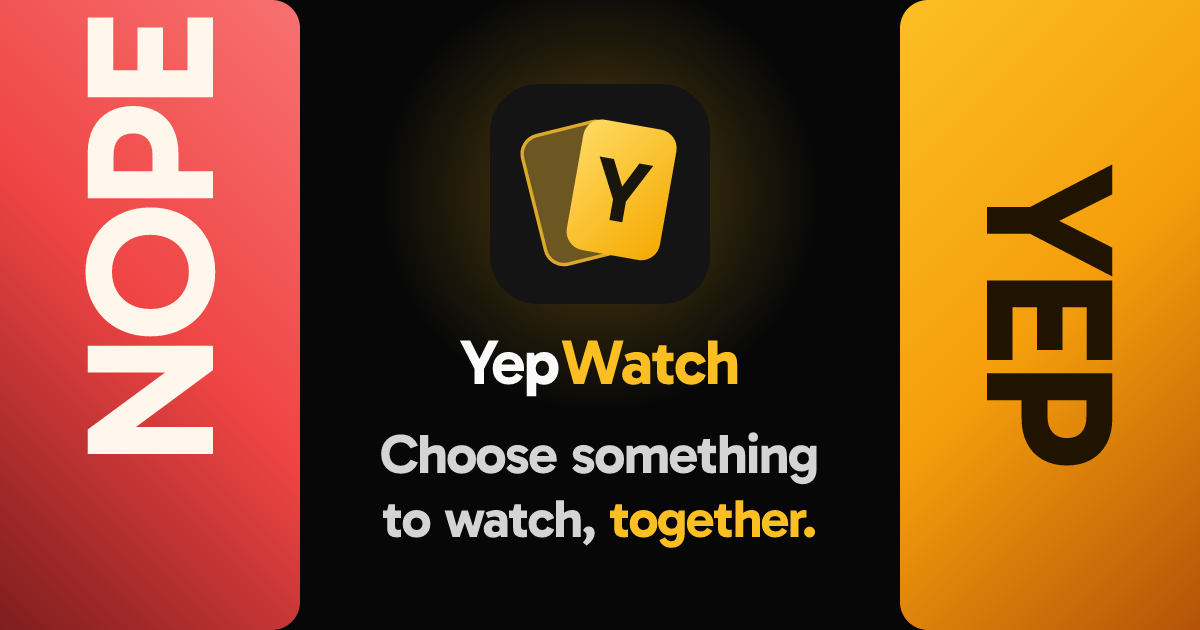
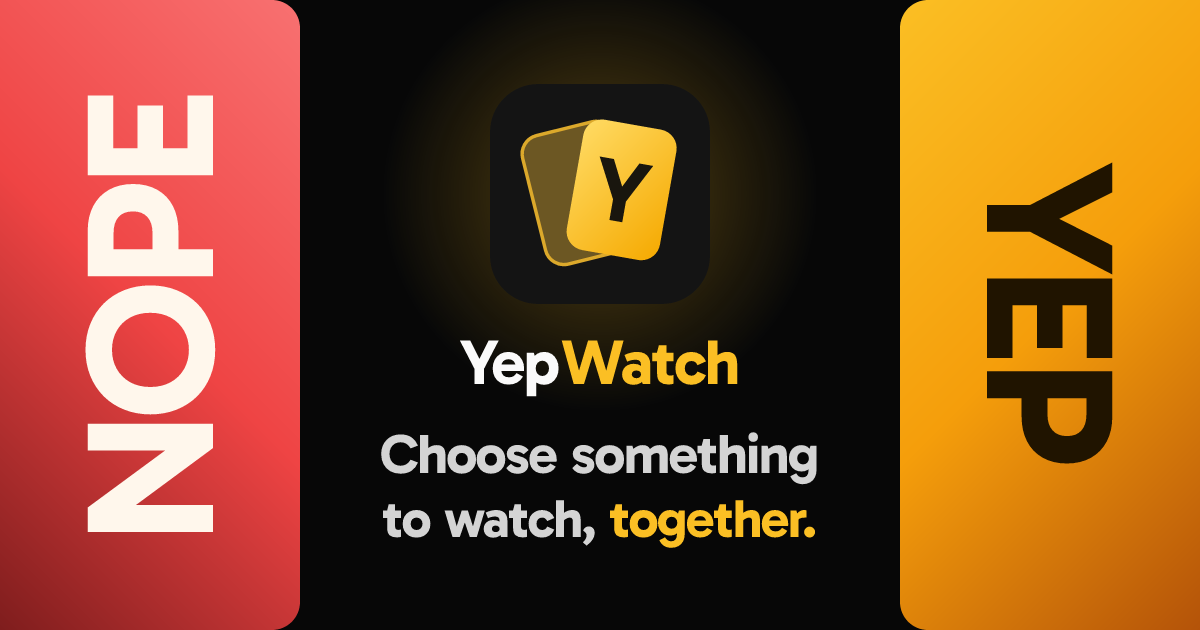
fix(yepwatch): center the Nope and Yep words in the link-card side panels
The rotated words are wider than their panels, so flex shrank their boxes
and the glyphs overflowed to one end; after rotation NOPE sat high.
flexShrink 0 keeps the box as wide as the word. The start card PNG is
regenerated.

Claude-Session: https://claude.ai/code/session_01PgmQvvx9Ac6VDk5xcnkV3V

diff --git a/goodwatch-webapp/app/server/yepwatch/link-cards.ts b/goodwatch-webapp/app/server/yepwatch/link-cards.ts
@@ -110,7 +110,8 @@ function panels(width: number, word: number) {
 					? { borderTopLeftRadius: 28, borderBottomLeftRadius: 28, background: `linear-gradient(135deg, ${C.amber} 0%, #f59e0b 50%, ${C.amberDeep} 100%)` }
 					: { borderTopRightRadius: 28, borderBottomRightRadius: 28, background: `linear-gradient(225deg, #f87171 0%, ${C.red} 50%, ${C.redDeep} 100%)` }),
 			},
-			text(right ? "YEP" : "NOPE", word, right ? C.ink2 : C.cream, { transform: `rotate(${right ? 90 : -90}deg)` }),
+			// flexShrink 0: the word is wider than the panel, and a shrunk box would rotate off center.
+			text(right ? "YEP" : "NOPE", word, right ? C.ink2 : C.cream, { flexShrink: 0, transform: `rotate(${right ? 90 : -90}deg)` }),
 		)
 	return [panel(false), panel(true)]
 }
